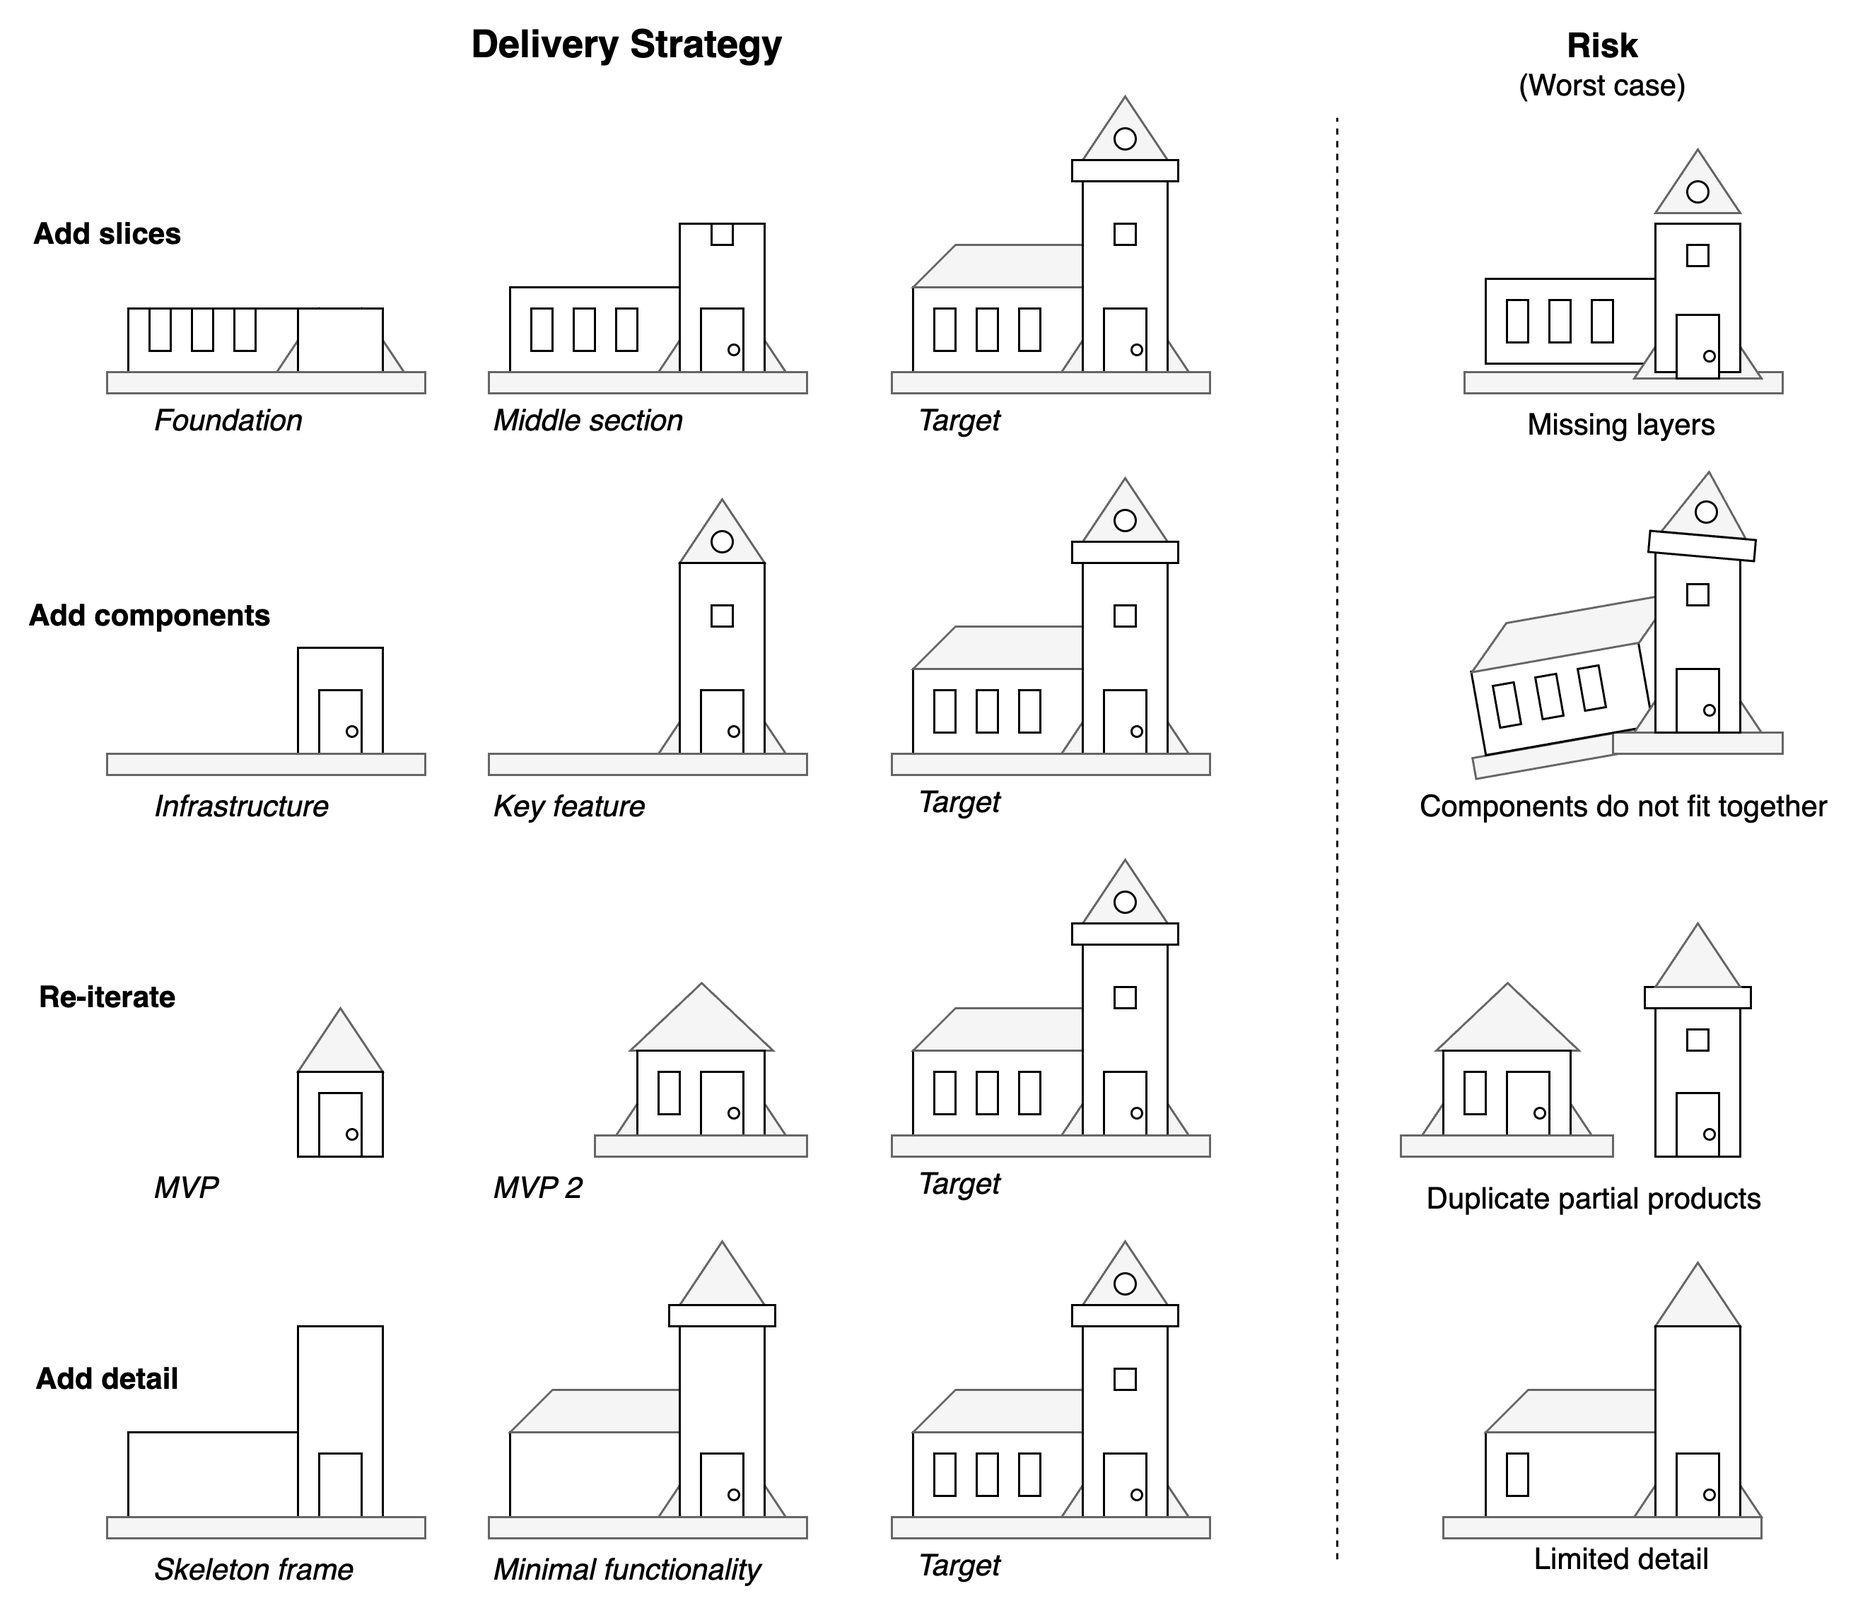
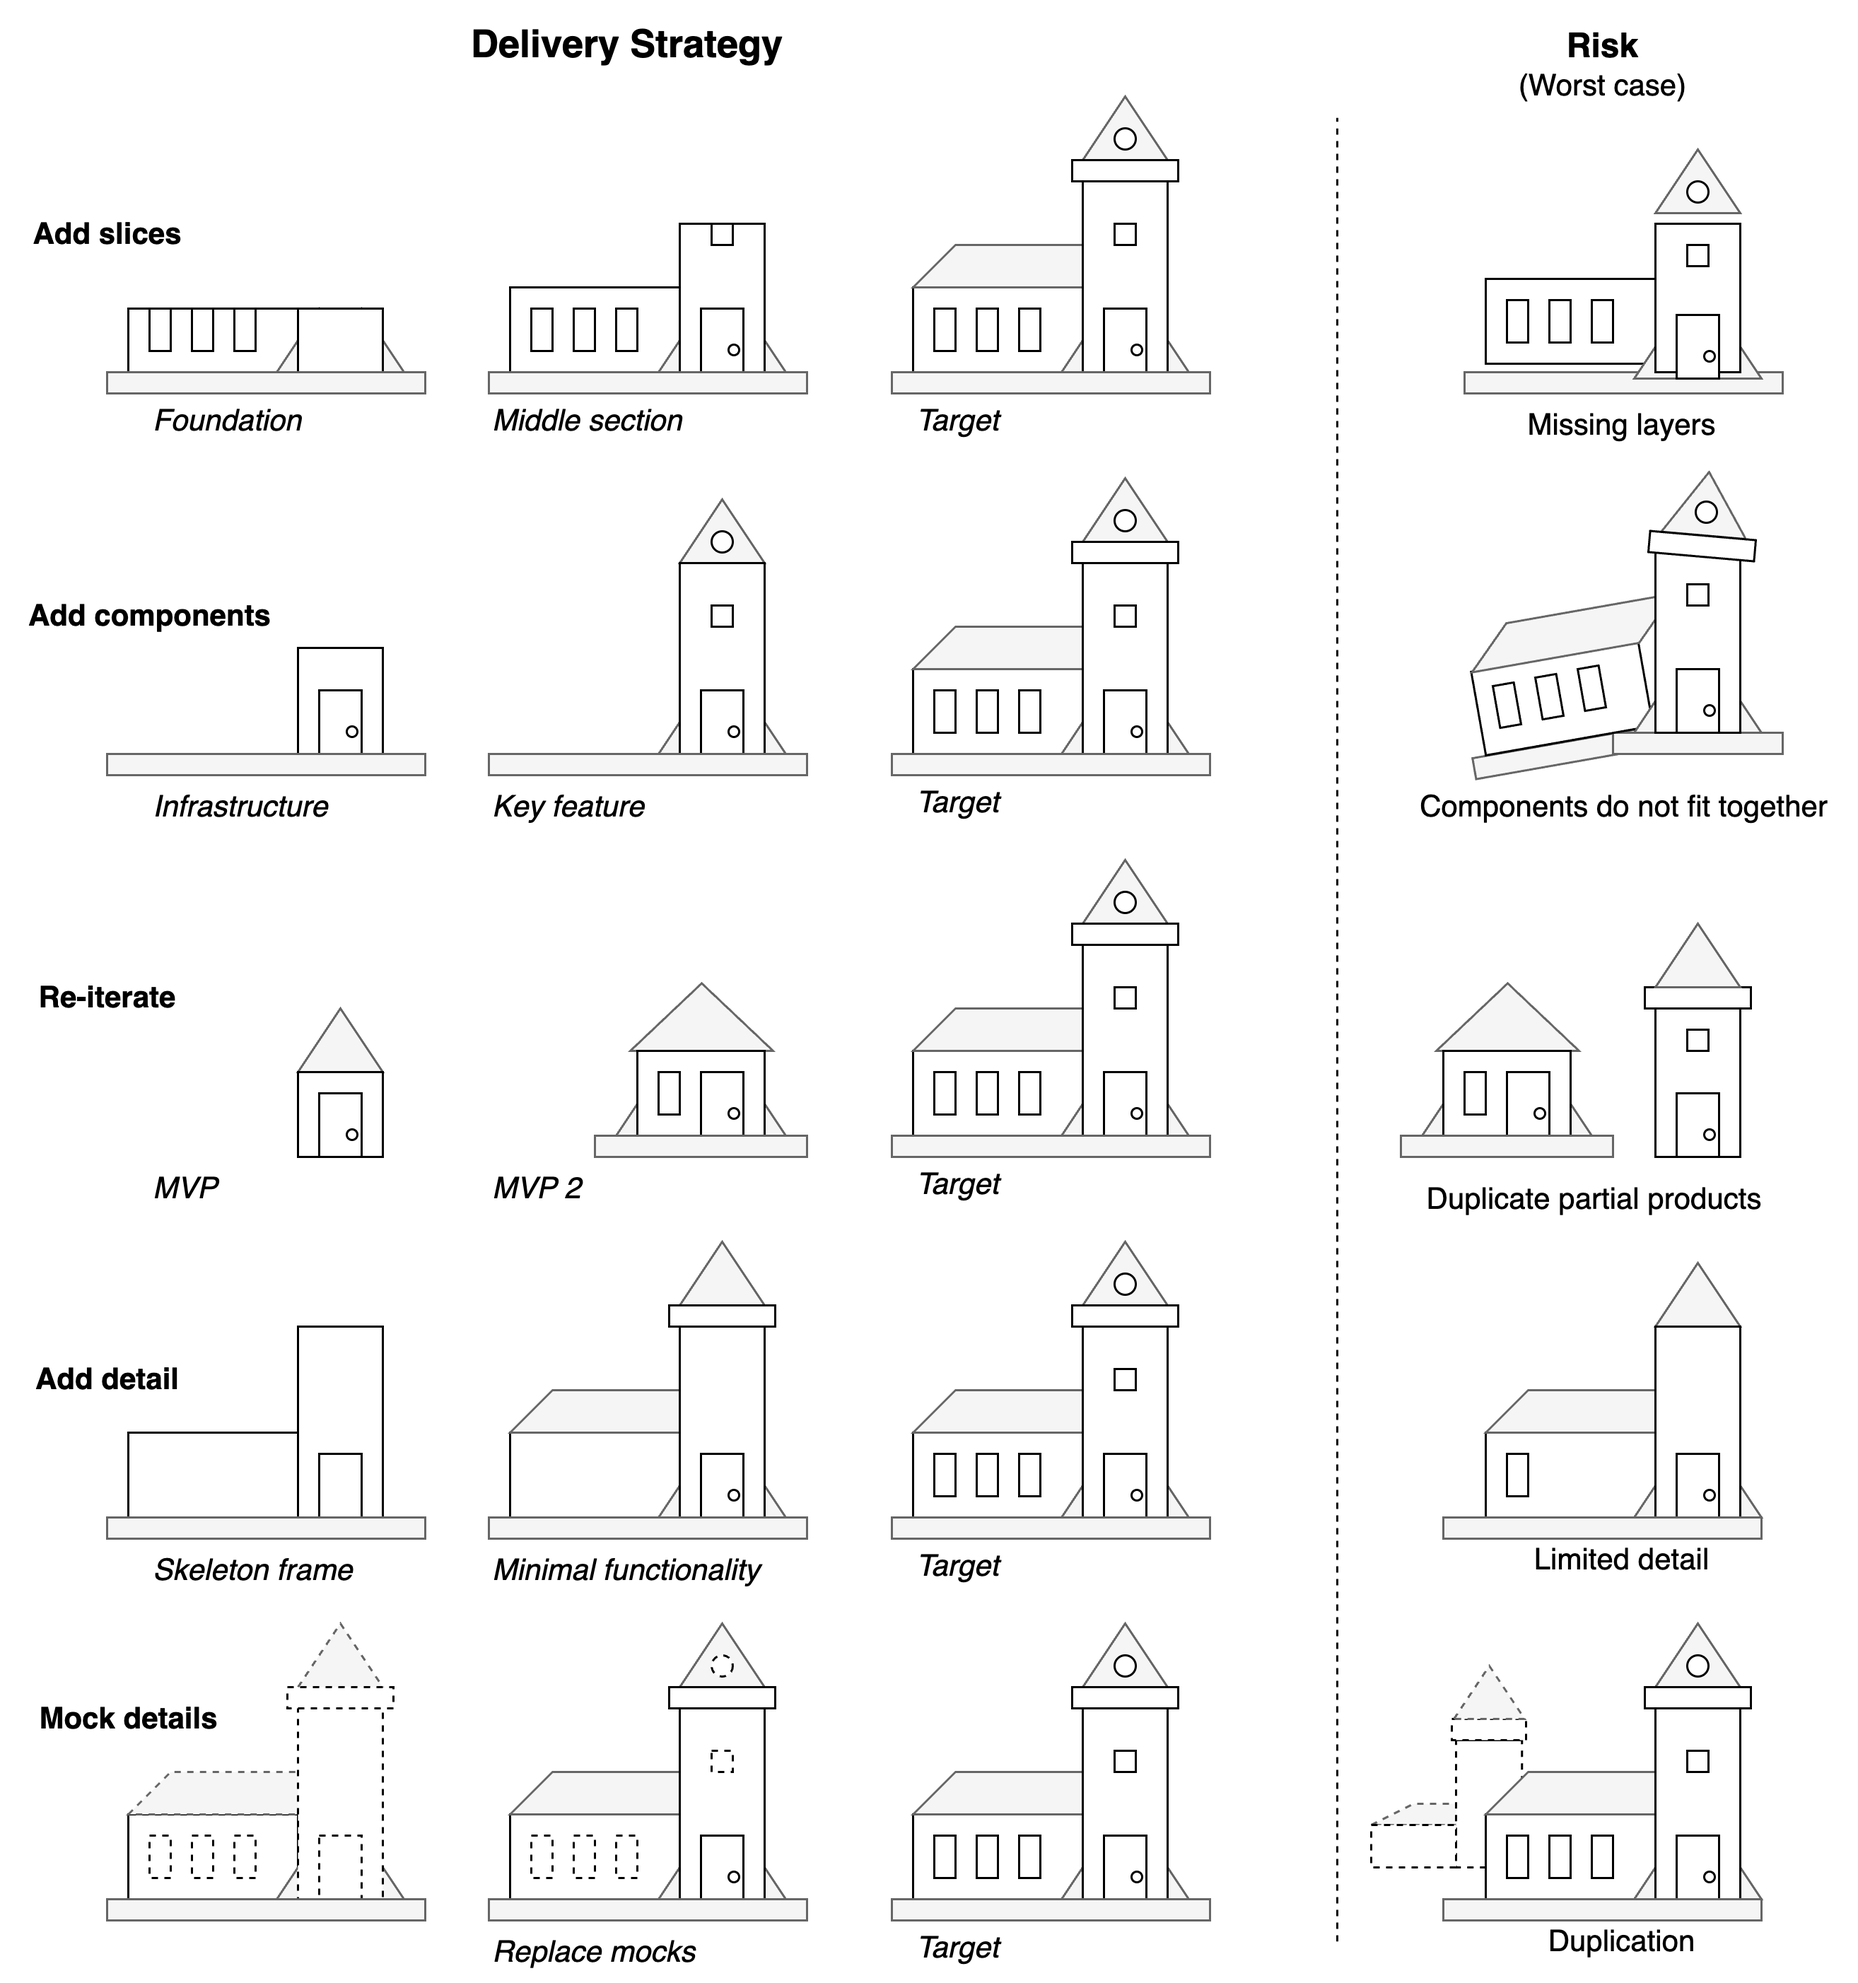
add mock examples

diff --git a/labour/documentation.md b/labour/documentation.md
@@ -56,18 +56,12 @@ The consider the following modes of scaling. See [communication patterns](system
 
 ![communication-patterns-broadcasting](../img/communication-patterns-broadcasting.png)
 
-Guideline
-
-- Make it a joy to read.
-
-
+**Effort**
 
 > You can write a weekly update in 7 days.
 
 - Write down signals during the week. Investigate the most relevant or urgent ones.
 - After each week, select the most relevant signals and ideas.
-
-
 
 
 
@@ -89,8 +83,6 @@ Guideline
       - "I'm thinking about this ~~initiative~~ outcome."
       - "There are at least 3 directions to change this."
       ```
-
-
 
 
 

diff --git a/labour/delivery.md b/labour/delivery.md
@@ -27,12 +27,12 @@ Product increments can be designed in several ways. There is a tradeoff between 
 
 
 
-Each release as can be treated as an experiment.
+Each release as can be treated as an experiment. Learn as much from it as you can.
 
 - There is a belief (hypothesis) about its outcome
 - Test beliefs by releasing.
 
-Learn as much from it as you can.
+Mock components if you want to test the product as a whole. Replace mocks and stubs later on, after the product fit has been shown.
 
 
 
